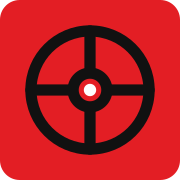
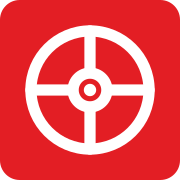
Refina balanço branco com rotação completa

Changed region(s): [[0.1389, 0.1389, 0.8611, 0.8611]]

diff --git a/carrinho.html b/carrinho.html
@@ -5,7 +5,7 @@
 <meta name="viewport" content="width=device-width, initial-scale=1.0">
 <title>Carrinho — Relógio e Cia Relojoaria</title>
 <link rel="icon" href="favicon.ico" sizes="any">
-<link rel="icon" href="favicon.svg?v=balance-1" type="image/svg+xml">
+<link rel="icon" href="favicon.svg?v=balance-2" type="image/svg+xml">
 <link rel="icon" href="favicon-32x32.png" type="image/png" sizes="32x32">
 <link rel="apple-touch-icon" href="apple-touch-icon.png">
 <meta name="description" content="Revise os itens do seu carrinho e finalize seu pedido na Relógio e Cia.">
@@ -15,7 +15,7 @@
 <link rel="stylesheet" href="shipping.css">
 </head>
 <body>
-<header class="site-header"><nav class="nav"><a href="index.html" class="brand-mark"><img class="brand-symbol" src="assets/logo-relogio-cia-mark.svg?v=balance-1" alt=""><span class="word">Relógio e Cia<small>Relojoaria desde 2003</small></span></a><ul class="nav-links"><li><a href="index.html">Início</a></li><li><a href="produtos.html">Produtos</a></li><li><a href="sobre.html">Sobre nós</a></li><li><a href="sobre.html#loja">Nossa loja</a></li></ul><div class="nav-utility"><a href="conta.html" class="nav-icon-link" id="nav-conta-link">Conta</a><a href="carrinho.html" class="nav-icon-link" aria-current="page">Carrinho <span class="cart-badge" id="cart-badge" data-zero="1">0</span></a></div><a href="produtos.html" class="nav-cta">Ver catálogo</a><button class="nav-toggle" aria-label="Abrir menu" aria-expanded="false">☰</button></nav></header>
+<header class="site-header"><nav class="nav"><a href="index.html" class="brand-mark"><img class="brand-symbol" src="assets/logo-relogio-cia-mark.svg?v=balance-2" alt=""><span class="word">Relógio e Cia<small>Relojoaria desde 2003</small></span></a><ul class="nav-links"><li><a href="index.html">Início</a></li><li><a href="produtos.html">Produtos</a></li><li><a href="sobre.html">Sobre nós</a></li><li><a href="sobre.html#loja">Nossa loja</a></li></ul><div class="nav-utility"><a href="conta.html" class="nav-icon-link" id="nav-conta-link">Conta</a><a href="carrinho.html" class="nav-icon-link" aria-current="page">Carrinho <span class="cart-badge" id="cart-badge" data-zero="1">0</span></a></div><a href="produtos.html" class="nav-cta">Ver catálogo</a><button class="nav-toggle" aria-label="Abrir menu" aria-expanded="false">☰</button></nav></header>
 <section class="section" style="padding-bottom:0;"><div class="frame"><div class="rail"><div class="rail-ticks"></div><span class="rail-mark"></span><span class="rail-label">Nº 03 — Carrinho</span></div><div><div class="section-content" style="padding-bottom:64px;"><p class="eyebrow">Seu pedido</p><h1 style="font-family:var(--font-display); font-size:clamp(1.9rem,3.4vw,2.7rem); margin:0 0 34px; font-weight:700; letter-spacing:-.01em;">Carrinho de compras</h1><div class="cart-layout"><div id="cart-list"></div><aside class="cart-summary" id="cart-summary-box"><h3>Resumo do pedido</h3><div id="cart-price-warning" style="display:none; margin:0 0 18px; padding:12px 14px; border:1px solid #e5b800; background:#fff9df; color:#5f4d00; font-size:.9rem; line-height:1.45;"></div><div class="cart-summary-row"><span>Subtotal</span><span id="cart-subtotal">R$ 0,00</span></div><div class="cart-summary-row" id="cart-desconto-row" style="display:none;"><span>Desconto PIX (5%)</span><span id="cart-desconto">R$ 0,00</span></div><div class="cart-summary-row total"><span>Total</span><span id="cart-total">R$ 0,00</span></div><form id="payment-form"><div class="payment-options"><label class="payment-option"><input type="radio" name="pagamento" value="pix" checked><span><strong>PIX</strong><span>5% de desconto, aprovação imediata</span></span></label><label class="payment-option"><input type="radio" name="pagamento" value="cartao"><span><strong>Cartão de crédito ou débito</strong><span>Pagamento seguro pelo Mercado Pago</span></span></label></div></form><p id="cart-msg" style="display:none;"></p><button class="btn btn-primary" type="button" id="btn-finalizar" style="width:100%; justify-content:center;">Finalizar pedido</button><p class="form-note" style="margin-top:14px;">No PIX, você paga diretamente nesta loja sem precisar entrar no Mercado Pago. Cartões continuam usando o checkout seguro do Mercado Pago.</p></aside></div></div></div></div></section>
 <footer><div class="frame"><div class="rail inverse"><div class="rail-ticks"></div></div><div><div class="footer-grid"><div><h5>Relógio e Cia</h5><p>Relógios e acessórios das melhores marcas, com loja física e atendimento especializado há mais de 20 anos.</p></div><div><h5>Navegação</h5><ul><li><a href="index.html">Início</a></li><li><a href="produtos.html">Produtos</a></li><li><a href="sobre.html">Sobre nós</a></li></ul></div><div><h5>Marcas</h5><ul><li><a href="produtos.html?marca=Technos">Technos</a></li><li><a href="produtos.html?marca=Casio">Casio</a></li><li><a href="produtos.html?marca=G-Shock">G-Shock</a></li><li><a href="produtos.html?marca=Citizen">Citizen</a></li><li><a href="produtos.html?marca=Orient">Orient</a></li></ul></div><div><h5>Atendimento</h5><ul><li><a href="tel:+555196311864">(51) 9631-1864</a></li><li><a href="mailto:totalrelogioecia@gmail.com">totalrelogioecia@gmail.com</a></li><li><a href="sobre.html#loja">Av. Cristóvão Colombo, 545 — Independência, Porto Alegre - RS</a></li></ul></div></div><div class="footer-bottom"><span>© 2026 Relógio e Cia Relojoaria. Todos os direitos reservados.</span><span>Site meramente ilustrativo</span></div></div></div></footer>
 <script src="cart-tools.js"></script>

diff --git a/conta.html b/conta.html
@@ -5,7 +5,7 @@
 <meta name="viewport" content="width=device-width, initial-scale=1.0">
 <title>Minha conta — Relógio e Cia Relojoaria</title>
 <link rel="icon" href="favicon.ico" sizes="any">
-<link rel="icon" href="favicon.svg?v=balance-1" type="image/svg+xml">
+<link rel="icon" href="favicon.svg?v=balance-2" type="image/svg+xml">
 <link rel="icon" href="favicon-32x32.png" type="image/png" sizes="32x32">
 <link rel="apple-touch-icon" href="apple-touch-icon.png">
 <meta name="description" content="Crie sua conta ou faça login para comprar na Relógio e Cia.">
@@ -14,7 +14,7 @@
 <link rel="stylesheet" href="style.css">
 </head>
 <body>
-<header class="site-header"><nav class="nav"><a href="index.html" class="brand-mark"><img class="brand-symbol" src="assets/logo-relogio-cia-mark.svg?v=balance-1" alt=""><span class="word">Relógio e Cia<small>Relojoaria desde 2003</small></span></a><ul class="nav-links"><li><a href="index.html">Início</a></li><li><a href="produtos.html">Produtos</a></li><li><a href="sobre.html">Sobre nós</a></li><li><a href="sobre.html#loja">Nossa loja</a></li></ul><div class="nav-utility"><a href="conta.html" class="nav-icon-link" id="nav-conta-link" aria-current="page">Conta</a><a href="carrinho.html" class="nav-icon-link">Carrinho <span class="cart-badge" id="cart-badge" data-zero="1">0</span></a></div><a href="produtos.html" class="nav-cta">Ver catálogo</a><button class="nav-toggle" aria-label="Abrir menu" aria-expanded="false">☰</button></nav></header>
+<header class="site-header"><nav class="nav"><a href="index.html" class="brand-mark"><img class="brand-symbol" src="assets/logo-relogio-cia-mark.svg?v=balance-2" alt=""><span class="word">Relógio e Cia<small>Relojoaria desde 2003</small></span></a><ul class="nav-links"><li><a href="index.html">Início</a></li><li><a href="produtos.html">Produtos</a></li><li><a href="sobre.html">Sobre nós</a></li><li><a href="sobre.html#loja">Nossa loja</a></li></ul><div class="nav-utility"><a href="conta.html" class="nav-icon-link" id="nav-conta-link" aria-current="page">Conta</a><a href="carrinho.html" class="nav-icon-link">Carrinho <span class="cart-badge" id="cart-badge" data-zero="1">0</span></a></div><a href="produtos.html" class="nav-cta">Ver catálogo</a><button class="nav-toggle" aria-label="Abrir menu" aria-expanded="false">☰</button></nav></header>
 <section class="section" style="padding-bottom:0;"><div class="frame"><div class="rail"><div class="rail-ticks"></div><span class="rail-mark"></span><span class="rail-label">Nº 04 — Conta</span></div><div><div class="section-content" style="padding-bottom:64px;"><p class="eyebrow">Sua conta</p><h1 style="font-family:var(--font-display); font-size:clamp(1.9rem,3.4vw,2.7rem); margin:0 0 12px; font-weight:700; letter-spacing:-.01em;">Entrar ou criar conta</h1><p style="color:var(--ink-soft); max-width:56ch; margin:0 0 40px;">Crie sua conta para finalizar pedidos com formas de pagamento no carrinho, ou entre com uma conta existente.</p><div class="account-box" id="account-box"></div></div></div></div></section>
 <footer><div class="frame"><div class="rail inverse"><div class="rail-ticks"></div></div><div><div class="footer-grid"><div><h5>Relógio e Cia</h5><p>Relógios e acessórios das melhores marcas, com loja física e atendimento especializado há mais de 20 anos.</p></div><div><h5>Navegação</h5><ul><li><a href="index.html">Início</a></li><li><a href="produtos.html">Produtos</a></li><li><a href="sobre.html">Sobre nós</a></li></ul></div><div><h5>Marcas</h5><ul><li><a href="produtos.html?marca=Technos">Technos</a></li><li><a href="produtos.html?marca=Casio">Casio</a></li><li><a href="produtos.html?marca=G-Shock">G-Shock</a></li><li><a href="produtos.html?marca=Citizen">Citizen</a></li><li><a href="produtos.html?marca=Orient">Orient</a></li></ul></div><div><h5>Atendimento</h5><ul><li><a href="tel:+555196311864">(51) 9631-1864</a></li><li><a href="mailto:totalrelogioecia@gmail.com">totalrelogioecia@gmail.com</a></li><li><a href="sobre.html#loja">Av. Cristóvão Colombo, 545 — Independência, Porto Alegre - RS</a></li></ul></div></div><div class="footer-bottom"><span>© 2026 Relógio e Cia Relojoaria. Todos os direitos reservados.</span><span>Site meramente ilustrativo</span></div></div></div></footer>
 <script src="script.js"></script>

diff --git a/admin.html b/admin.html
@@ -4,12 +4,12 @@
 <meta charset="UTF-8"><meta name="viewport" content="width=device-width, initial-scale=1.0">
 <title>Painel administrativo — Relógio e Cia</title>
 <link rel="icon" href="favicon.ico" sizes="any">
-<link rel="icon" href="favicon.svg?v=balance-1" type="image/svg+xml">
+<link rel="icon" href="favicon.svg?v=balance-2" type="image/svg+xml">
 <link rel="icon" href="favicon-32x32.png" type="image/png" sizes="32x32">
 <link rel="apple-touch-icon" href="apple-touch-icon.png">
 <link rel="stylesheet" href="style.css"><link rel="stylesheet" href="admin.css"><link rel="stylesheet" href="admin-payment-reasons.css"><link rel="stylesheet" href="admin-shipping.css"><link rel="stylesheet" href="admin-melhorenvio.css"><link rel="stylesheet" href="admin-coupons.css"><link rel="stylesheet" href="admin-product-enrichment.css">
 </head><body class="admin-page">
-<header class="site-header"><nav class="nav"><a href="index.html" class="brand-mark"><img class="brand-symbol" src="assets/logo-relogio-cia-mark.svg?v=balance-1" alt=""><span class="word">Relógio e Cia<small>Painel administrativo</small></span></a><a href="index.html" class="nav-cta">Ver loja</a></nav></header>
+<header class="site-header"><nav class="nav"><a href="index.html" class="brand-mark"><img class="brand-symbol" src="assets/logo-relogio-cia-mark.svg?v=balance-2" alt=""><span class="word">Relógio e Cia<small>Painel administrativo</small></span></a><a href="index.html" class="nav-cta">Ver loja</a></nav></header>
 <main class="admin-main">
 <section id="login-screen" class="admin-card login-card">
 <p class="eyebrow">Área restrita</p><h1>Painel administrativo</h1><p class="admin-muted">Entre com o usuário definido no arquivo <code>.env</code>.</p>

diff --git a/politica-de-privacidade.html b/politica-de-privacidade.html
@@ -5,7 +5,7 @@
 <meta name="viewport" content="width=device-width, initial-scale=1.0">
 <title>Política de Privacidade — Relógio e Cia</title>
 <link rel="icon" href="favicon.ico" sizes="any">
-<link rel="icon" href="favicon.svg?v=balance-1" type="image/svg+xml">
+<link rel="icon" href="favicon.svg?v=balance-2" type="image/svg+xml">
 <link rel="icon" href="favicon-32x32.png" type="image/png" sizes="32x32">
 <link rel="apple-touch-icon" href="apple-touch-icon.png">
 <meta name="description" content="Política de Privacidade da Relógio e Cia: saiba como tratamos dados pessoais, pedidos, pagamentos, entregas e solicitações dos clientes.">
@@ -17,7 +17,7 @@
 <body>
 <header class="site-header">
   <nav class="nav">
-    <a href="index.html" class="brand-mark"><img class="brand-symbol" src="assets/logo-relogio-cia-mark.svg?v=balance-1" alt=""><span class="word">Relógio e Cia<small>Relojoaria desde 2003</small></span></a>
+    <a href="index.html" class="brand-mark"><img class="brand-symbol" src="assets/logo-relogio-cia-mark.svg?v=balance-2" alt=""><span class="word">Relógio e Cia<small>Relojoaria desde 2003</small></span></a>
     <ul class="nav-links">
       <li><a href="index.html">Início</a></li>
       <li><a href="produtos.html">Produtos</a></li>

diff --git a/termos-de-uso.html b/termos-de-uso.html
@@ -5,7 +5,7 @@
 <meta name="viewport" content="width=device-width, initial-scale=1.0">
 <title>Termos de Uso e Compra — Relógio e Cia</title>
 <link rel="icon" href="favicon.ico" sizes="any">
-<link rel="icon" href="favicon.svg?v=balance-1" type="image/svg+xml">
+<link rel="icon" href="favicon.svg?v=balance-2" type="image/svg+xml">
 <link rel="icon" href="favicon-32x32.png" type="image/png" sizes="32x32">
 <link rel="apple-touch-icon" href="apple-touch-icon.png">
 <meta name="description" content="Termos de Uso e Compra da Relógio e Cia: regras de cadastro, pedidos, pagamentos, entregas, trocas e uso do site.">
@@ -17,7 +17,7 @@
 <body>
 <header class="site-header">
   <nav class="nav">
-    <a href="index.html" class="brand-mark"><img class="brand-symbol" src="assets/logo-relogio-cia-mark.svg?v=balance-1" alt=""><span class="word">Relógio e Cia<small>Relojoaria desde 2003</small></span></a>
+    <a href="index.html" class="brand-mark"><img class="brand-symbol" src="assets/logo-relogio-cia-mark.svg?v=balance-2" alt=""><span class="word">Relógio e Cia<small>Relojoaria desde 2003</small></span></a>
     <ul class="nav-links">
       <li><a href="index.html">Início</a></li>
       <li><a href="produtos.html">Produtos</a></li>

diff --git a/trocas-estornos.html b/trocas-estornos.html
@@ -5,7 +5,7 @@
 <meta name="viewport" content="width=device-width, initial-scale=1.0">
 <title>Trocas, devoluções e estornos — Relógio e Cia</title>
 <link rel="icon" href="favicon.ico" sizes="any">
-<link rel="icon" href="favicon.svg?v=balance-1" type="image/svg+xml">
+<link rel="icon" href="favicon.svg?v=balance-2" type="image/svg+xml">
 <link rel="icon" href="favicon-32x32.png" type="image/png" sizes="32x32">
 <link rel="apple-touch-icon" href="apple-touch-icon.png">
 <meta name="description" content="Informações sobre trocas, devoluções, estornos e canais de atendimento da Relógio e Cia.">
@@ -18,7 +18,7 @@
 <body>
 <header class="site-header">
   <nav class="nav">
-    <a href="index.html" class="brand-mark"><img class="brand-symbol" src="assets/logo-relogio-cia-mark.svg?v=balance-1" alt=""><span class="word">Relógio e Cia<small>Relojoaria desde 2003</small></span></a>
+    <a href="index.html" class="brand-mark"><img class="brand-symbol" src="assets/logo-relogio-cia-mark.svg?v=balance-2" alt=""><span class="word">Relógio e Cia<small>Relojoaria desde 2003</small></span></a>
     <ul class="nav-links">
       <li><a href="index.html">Início</a></li>
       <li><a href="produtos.html">Produtos</a></li>

diff --git a/produto.html b/produto.html
@@ -5,7 +5,7 @@
 <meta name="viewport" content="width=device-width, initial-scale=1.0">
 <title>Produto — Relógio e Cia</title>
 <link rel="icon" href="favicon.ico" sizes="any">
-<link rel="icon" href="favicon.svg?v=balance-1" type="image/svg+xml">
+<link rel="icon" href="favicon.svg?v=balance-2" type="image/svg+xml">
 <link rel="icon" href="favicon-32x32.png" type="image/png" sizes="32x32">
 <link rel="apple-touch-icon" href="apple-touch-icon.png">
 <meta name="description" content="Detalhes do produto, especificações, fotos, disponibilidade e cálculo de frete.">
@@ -18,7 +18,7 @@
 <body>
 <header class="site-header">
   <nav class="nav">
-    <a href="index.html" class="brand-mark"><img class="brand-symbol" src="assets/logo-relogio-cia-mark.svg?v=balance-1" alt=""><span class="word">Relógio e Cia<small>Relojoaria desde 2003</small></span></a>
+    <a href="index.html" class="brand-mark"><img class="brand-symbol" src="assets/logo-relogio-cia-mark.svg?v=balance-2" alt=""><span class="word">Relógio e Cia<small>Relojoaria desde 2003</small></span></a>
     <ul class="nav-links">
       <li><a href="index.html">Início</a></li>
       <li><a href="produtos.html" aria-current="page">Produtos</a></li>

diff --git a/enderecos.html b/enderecos.html
@@ -5,7 +5,7 @@
 <meta name="viewport" content="width=device-width, initial-scale=1.0">
 <title>Meus endereços — Relógio e Cia Relojoaria</title>
 <link rel="icon" href="favicon.ico" sizes="any">
-<link rel="icon" href="favicon.svg?v=balance-1" type="image/svg+xml">
+<link rel="icon" href="favicon.svg?v=balance-2" type="image/svg+xml">
 <link rel="icon" href="favicon-32x32.png" type="image/png" sizes="32x32">
 <link rel="apple-touch-icon" href="apple-touch-icon.png">
 <meta name="description" content="Gerencie seus endereços de entrega na Relógio e Cia.">
@@ -17,7 +17,7 @@
 <body>
 <header class="site-header">
   <nav class="nav">
-    <a href="index.html" class="brand-mark"><img class="brand-symbol" src="assets/logo-relogio-cia-mark.svg?v=balance-1" alt=""><span class="word">Relógio e Cia<small>Relojoaria desde 2003</small></span></a>
+    <a href="index.html" class="brand-mark"><img class="brand-symbol" src="assets/logo-relogio-cia-mark.svg?v=balance-2" alt=""><span class="word">Relógio e Cia<small>Relojoaria desde 2003</small></span></a>
     <ul class="nav-links">
       <li><a href="index.html">Início</a></li>
       <li><a href="produtos.html">Produtos</a></li>

diff --git a/index.html b/index.html
@@ -5,7 +5,7 @@
 <meta name="viewport" content="width=device-width, initial-scale=1.0">
 <title>Relógio e Cia — Relógios e Acessórios | Technos, Casio, G-Shock, Citizen, Orient</title>
 <link rel="icon" href="favicon.ico" sizes="any">
-<link rel="icon" href="favicon.svg?v=balance-1" type="image/svg+xml">
+<link rel="icon" href="favicon.svg?v=balance-2" type="image/svg+xml">
 <link rel="icon" href="favicon-32x32.png" type="image/png" sizes="32x32">
 <link rel="apple-touch-icon" href="apple-touch-icon.png">
 <meta name="description" content="Há mais de 20 anos vendendo relógios e acessórios das melhores marcas. Loja física e online. Technos, Casio, G-Shock, Citizen e Orient.">
@@ -21,7 +21,7 @@
 <header class="site-header">
   <nav class="nav">
     <a href="index.html" class="brand-mark">
-      <img class="brand-symbol" src="assets/logo-relogio-cia-mark.svg?v=balance-1" alt="">
+      <img class="brand-symbol" src="assets/logo-relogio-cia-mark.svg?v=balance-2" alt="">
       <span class="word">Relógio e Cia<small>Relojoaria desde 2003</small></span>
     </a>
     <ul class="nav-links">

diff --git a/sobre.html b/sobre.html
@@ -5,7 +5,7 @@
 <meta name="viewport" content="width=device-width, initial-scale=1.0">
 <title>Sobre nós — Relógio e Cia Relojoaria</title>
 <link rel="icon" href="favicon.ico" sizes="any">
-<link rel="icon" href="favicon.svg?v=balance-1" type="image/svg+xml">
+<link rel="icon" href="favicon.svg?v=balance-2" type="image/svg+xml">
 <link rel="icon" href="favicon-32x32.png" type="image/png" sizes="32x32">
 <link rel="apple-touch-icon" href="apple-touch-icon.png">
 <meta name="description" content="Conheça a história da Relógio e Cia: mais de 20 anos vendendo relógios e acessórios, com loja física e atendimento especializado.">
@@ -18,7 +18,7 @@
 <header class="site-header">
   <nav class="nav">
     <a href="index.html" class="brand-mark">
-      <img class="brand-symbol" src="assets/logo-relogio-cia-mark.svg?v=balance-1" alt="">
+      <img class="brand-symbol" src="assets/logo-relogio-cia-mark.svg?v=balance-2" alt="">
       <span class="word">Relógio e Cia<small>Relojoaria desde 2003</small></span>
     </a>
     <ul class="nav-links">

diff --git a/produtos.html b/produtos.html
@@ -5,7 +5,7 @@
 <meta name="viewport" content="width=device-width, initial-scale=1.0">
 <title>Produtos — Relógio e Cia Relojoaria</title>
 <link rel="icon" href="favicon.ico" sizes="any">
-<link rel="icon" href="favicon.svg?v=balance-1" type="image/svg+xml">
+<link rel="icon" href="favicon.svg?v=balance-2" type="image/svg+xml">
 <link rel="icon" href="favicon-32x32.png" type="image/png" sizes="32x32">
 <link rel="apple-touch-icon" href="apple-touch-icon.png">
 <meta name="description" content="Relógios e acessórios Technos, Casio, G-Shock, Citizen e Orient. Filtre por marca, categoria e preço.">
@@ -19,7 +19,7 @@
 <header class="site-header">
   <nav class="nav">
     <a href="index.html" class="brand-mark">
-      <img class="brand-symbol" src="assets/logo-relogio-cia-mark.svg?v=balance-1" alt="">
+      <img class="brand-symbol" src="assets/logo-relogio-cia-mark.svg?v=balance-2" alt="">
       <span class="word">Relógio e Cia<small>Relojoaria desde 2003</small></span>
     </a>
     <ul class="nav-links">

diff --git a/pagamento-pix.html b/pagamento-pix.html
@@ -5,7 +5,7 @@
   <meta name="viewport" content="width=device-width,initial-scale=1.0">
   <title>Pagamento PIX — Relógio e Cia</title>
   <link rel="icon" href="favicon.ico" sizes="any">
-  <link rel="icon" href="favicon.svg?v=balance-1" type="image/svg+xml">
+  <link rel="icon" href="favicon.svg?v=balance-2" type="image/svg+xml">
   <link rel="icon" href="favicon-32x32.png" type="image/png" sizes="32x32">
   <link rel="apple-touch-icon" href="apple-touch-icon.png">
   <link rel="stylesheet" href="style.css">
@@ -24,7 +24,7 @@
   <header class="site-header">
     <nav class="nav">
       <a href="index.html" class="brand-mark">
-        <img class="brand-symbol" src="assets/logo-relogio-cia-mark.svg?v=balance-1" alt="">
+        <img class="brand-symbol" src="assets/logo-relogio-cia-mark.svg?v=balance-2" alt="">
         <span class="word">Relógio e Cia<small>Relojoaria desde 2003</small></span>
       </a>
       <a href="produtos.html" class="nav-cta">Continuar comprando</a>
